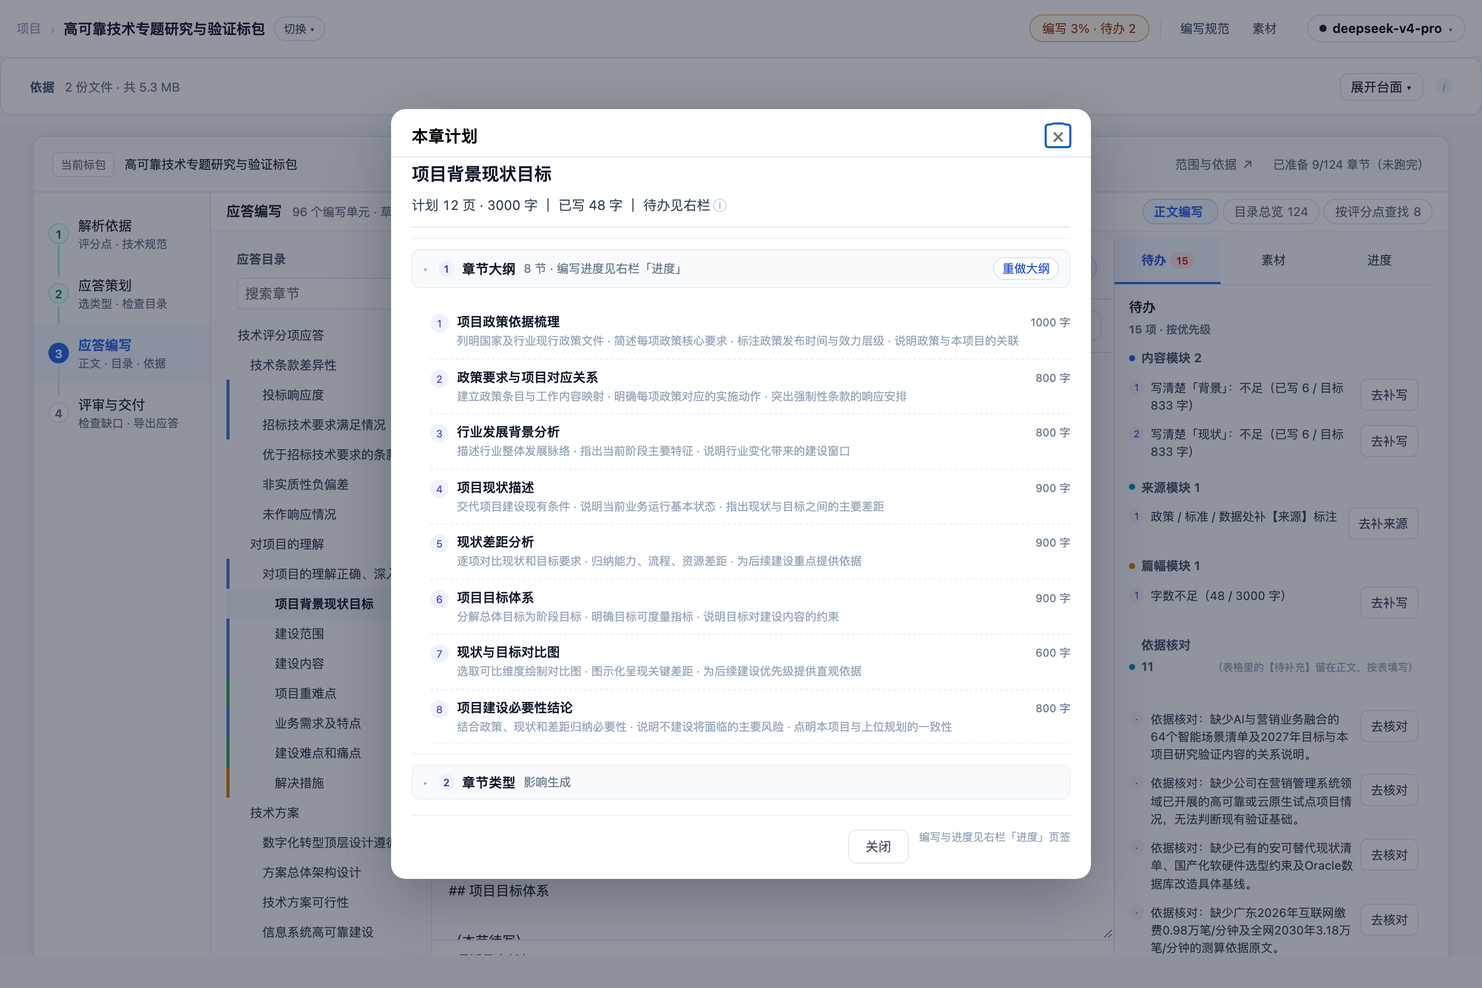
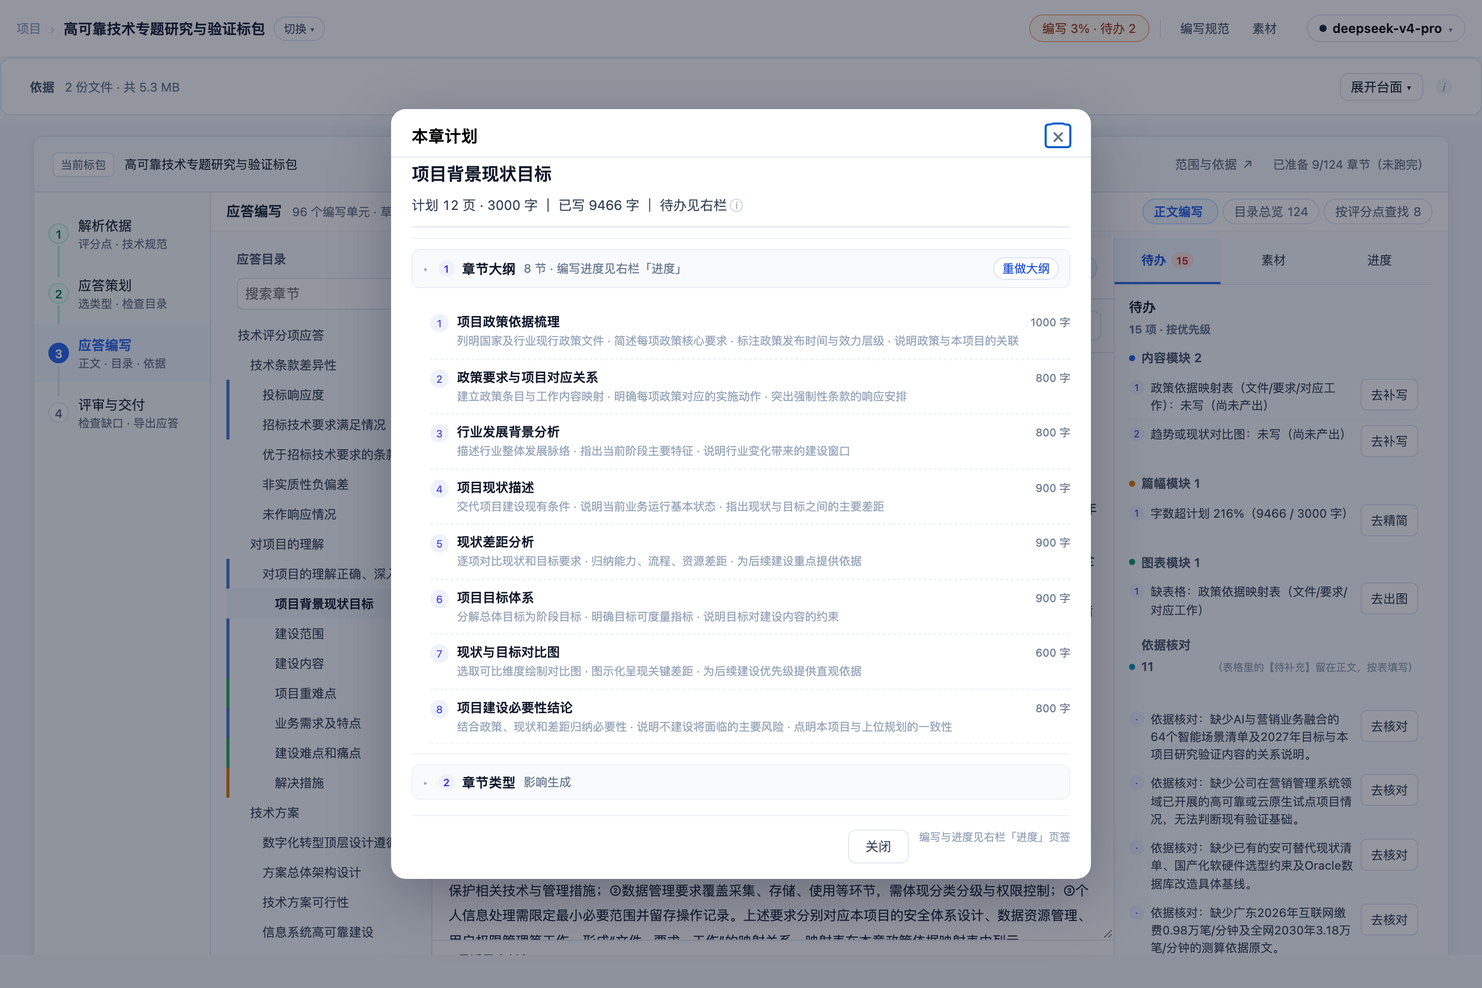
feat(图片审阅): 点缩略图可放大查看（dialog 顶层，不被图集遮挡）
用户要求：审阅图集里的缩略图点击后可以放大。

## 实现
- 新增 `openFigureZoom(figure)`：用 **dialog + showModal()** 渲染放大层
  · AI 图：按图型重新渲染（1.15 倍），保持清晰可读
  · 素材图：原图 `<img>`，最大 76vh
  · 待补图：提示"这张图还没有内容"
  · 头部显示图名 + 所属节；右上 × / 点遮罩 / Esc 均可关闭
- 图集缩略图加 `data-zoom-card` + `cursor: zoom-in` + `title="点击放大"`；
  点击缩略图放大，点「调整 / 查看 / 定位」按钮不受影响

## 踩坑与修复
第一版用普通 div + z-index:80 → **被 <dialog> 模态层盖住**（看起来"点了没反应"）。
改为 dialog 后进入 top layer，稳定盖在图集之上。

## 实测（真实页面）
点缩略图 → 放大层打开（宽 1100px、图型按 1.15 倍渲染）→ 点遮罩关闭 ✓

界面 52/52（v362）

diff --git a/frontend/assets/mode-outline.js b/frontend/assets/mode-outline.js
@@ -2,9 +2,9 @@
    抽成模块的目的：两段内联脚本有 90 个同名顶层标识符 + 18 个重复 DOM id，
    同页拼接必然互相覆盖；各自成为一个模块即各自一个作用域。
    本文件在抽取时**未改任何逻辑**。 */
-import {mountChapterStudio, exportDocument} from './chapter-studio.mjs?v=20261016-v359';
-import { api } from './api.js?v=20261016-v359';
-import { specContentHtml } from './spec-content.mjs?v=20261016-v359';
+import {mountChapterStudio, exportDocument} from './chapter-studio.mjs?v=20261016-v362';
+import { api } from './api.js?v=20261016-v362';
+import { specContentHtml } from './spec-content.mjs?v=20261016-v362';
 // 顶栏（项目名旁边那行「第 N 轮 · ...」）由共享壳 workspace.js 渲染。这里要把它
 // 改成**页面自己的真实状态**：checkpoint 的 stage 在准备中/编写准备完成后都停在
 // outline_review，只看它的话顶栏永远显示"待确认目录"（实测就是这个问题）。
@@ -12,7 +12,7 @@ import { workspace, renderWorkspaceChrome,
          REQUIREMENT_ROLES, SELECTABLE_REQUIREMENT_ROLES, ROLE_LABEL_SHARED, ROLE_HINT_SHARED,
          roleMismatchWarning, inferRoleFromFilename,
          uiAlert, uiConfirm,
-       } from './workspace.js?v=20261016-v359';
+       } from './workspace.js?v=20261016-v362';
 import { resolvePackageScope, buildOutlineTree, isOrphanedRun, activeStages, instructionDirty, newOutlineId, outlineSubtreeRange,
          moveOutlineNode, indentOutlineNode, outdentOutlineNode,
          moveManyOutlineNodes, indentManyOutlineNodes, outdentManyOutlineNodes,
@@ -31,7 +31,7 @@ import { resolvePackageScope, buildOutlineTree, isOrphanedRun, activeStages, ins
          // 章节状态投影：素材库 / 方案编辑 / 覆盖矩阵共用同一份判定（不再各算各的）
          chapterStage, chapterBadges, filterChapters, chapterFilterCounts,
          CHAPTER_STAGE_LABELS, evidenceByChapter, expandVisibleWithAncestors
-       } from './workspace-model.mjs?v=20261016-v359';
+       } from './workspace-model.mjs?v=20261016-v362';
 
 const params = new URLSearchParams(location.search);
 // projectId **只取数字部分**：链接被误写成 `?projectId=19**(Cmd+Shift+R)`（连带说明文字）
@@ -180,7 +180,7 @@ document.head.insertAdjacentHTML('beforeend', `<style>
 // 左栏章节树：行标记与「方案编辑」共用一份（2026-10-13 左栏归一）。
 // 此前两侧各拼一套（.ot-row / .doc-outline-item），数据投影虽已共用，
 // 但标记重复维护会漂移（workspace-model.mjs 注释里记着 "#undefined" 那次）。
-import { chapterNode, chapterBadgesHtml as sharedBadgesHtml } from './chapter-tree.mjs?v=20261016-v359';
+import { chapterNode, chapterBadgesHtml as sharedBadgesHtml } from './chapter-tree.mjs?v=20261016-v362';
 const blocksEmpty = document.getElementById('blocks-empty');
 const sidebarToc  = document.getElementById('sidebar-toc');
 const ringFill    = document.getElementById('ring-fill');

diff --git a/frontend/workbench.html b/frontend/workbench.html
@@ -4,7 +4,7 @@
     <meta charset="UTF-8" />
     <meta name="viewport" content="width=device-width, initial-scale=1.0" />
     <title>智能应标 · 材料撰写</title>
-    <link rel="stylesheet" href="./assets/styles.css?v=20261016-v359" />
+    <link rel="stylesheet" href="./assets/styles.css?v=20261016-v362" />
     <style>
       /* Outline pane */
       .workspace-shell .outline-pane {
@@ -2055,7 +2055,7 @@
     </style>
     <!-- Markdown 渲染（用于预览模式） -->
     <script src="https://cdn.jsdelivr.net/npm/marked@12.0.0/marked.min.js"></script>
-  <link rel="stylesheet" href="./assets/workspace.css?v=20261016-v359" />
+  <link rel="stylesheet" href="./assets/workspace.css?v=20261016-v362" />
   </head>
   <body>
   <script>
@@ -2500,18 +2500,18 @@
       </main>
     </div>
 
-    <script type="module" src="./assets/workbench.js?v=20261016-v359"></script>
+    <script type="module" src="./assets/workbench.js?v=20261016-v362"></script>
     <script type="module">
-      import { GenerateSession } from './assets/generate-session.js?v=20261016-v359';
-      import { initContextPanel } from './assets/context-panel.js?v=20261016-v359';
-      import { api } from './assets/api.js?v=20261016-v359';
-      import { request as workspaceRequest, refreshWorkspace, workspace, confirmChapterAction } from './assets/workspace.js?v=20261016-v359';
+      import { GenerateSession } from './assets/generate-session.js?v=20261016-v362';
+      import { initContextPanel } from './assets/context-panel.js?v=20261016-v362';
+      import { api } from './assets/api.js?v=20261016-v362';
+      import { request as workspaceRequest, refreshWorkspace, workspace, confirmChapterAction } from './assets/workspace.js?v=20261016-v362';
       // 提炼字段枚举 + 素材依据的**渲染片段**与 project-init 共用（见 workspace-model.mjs 注释）：
       // 性质徽标与出处行的实现在那边只有一份，两个页面不再各写一套（曾经因此漂移出
       // "每行显示 #undefined"）。
       import { CONSTRAINT_LEVELS, constraintLevelLabel,
                evidenceKindBadgeHtml, evidenceSourceLineHtml, evidenceSnippet,
-               chapterStage, CHAPTER_STAGE_LABELS } from './assets/workspace-model.mjs?v=20261016-v359';
+               chapterStage, CHAPTER_STAGE_LABELS } from './assets/workspace-model.mjs?v=20261016-v362';
       initContextPanel();
 
       // 素材抽屉：默认收起（写作时右栏就是正文本身），点工具栏「素材 n ▸」打开；
@@ -5575,6 +5575,6 @@
       })();
     })();
     </script>
-  <script type="module" src="./assets/workspace.js?v=20261016-v359"></script>
+  <script type="module" src="./assets/workspace.js?v=20261016-v362"></script>
   </body>
 </html>

diff --git a/frontend/three-mode.html b/frontend/three-mode.html
@@ -4,9 +4,9 @@
     <meta charset="UTF-8" />
     <meta name="viewport" content="width=device-width, initial-scale=1.0" />
     <title>AiBidding · Workbench Init State</title>
-    <link rel="stylesheet" href="./assets/response-outline.css?v=20261016-v359" />
-    <link rel="stylesheet" href="./assets/chapter-studio.css?v=20261016-v359" />
-    <link rel="stylesheet" href="./assets/styles.css?v=20261016-v359" />
+    <link rel="stylesheet" href="./assets/response-outline.css?v=20261016-v362" />
+    <link rel="stylesheet" href="./assets/chapter-studio.css?v=20261016-v362" />
+    <link rel="stylesheet" href="./assets/styles.css?v=20261016-v362" />
     <style>
 /* ── 三栏布局 ── */
 .init-layout {
@@ -3350,8 +3350,8 @@ body[data-view="matching"] .match-detail { display: block; }
   body[data-view="editor"] .ws-editor-layout { flex: 1 1 auto; min-height: 0; }
 
 </style>
-  <link rel="stylesheet" href="./assets/workspace.css?v=20261016-v359" />
-  <link rel="stylesheet" href="./assets/ui.css?v=20261016-v359" />   <!-- 组件最小集：最后加载以统一历史类名 -->
+  <link rel="stylesheet" href="./assets/workspace.css?v=20261016-v362" />
+  <link rel="stylesheet" href="./assets/ui.css?v=20261016-v362" />   <!-- 组件最小集：最后加载以统一历史类名 -->
   </head>
   <body data-view="outline" data-modes="outline,matching,editor">
     <div class="workspace-shell">
@@ -4062,16 +4062,16 @@ body[data-view="matching"] .match-detail { display: block; }
         if (skel) skel.hidden = true;
       }, 6000);
     </script>
-    <script type="module" src="./assets/workbench.js?v=20261016-v359"></script>
-    <script type="module" src="./assets/mode-dispatch.js?v=20261016-v359"></script>
+    <script type="module" src="./assets/workbench.js?v=20261016-v362"></script>
+    <script type="module" src="./assets/mode-dispatch.js?v=20261016-v362"></script>
     <!-- 动态 import：失败可捕获并上报（静态 import 失败无法捕获，会让整页静默不执行） -->
     <script type="module">
-      for (const mod of ['./assets/mode-outline.js?v=20261016-v359',
-                        './assets/mode-editor.js?v=20261016-v359']) {
+      for (const mod of ['./assets/mode-outline.js?v=20261016-v362',
+                        './assets/mode-editor.js?v=20261016-v362']) {
         try { await import(mod); }
         catch (err) { window.__bootErrors.push(`模块加载失败 ${mod}：${err?.message || err}`); }
       }
     </script>
-  <script type="module" src="./assets/workspace.js?v=20261016-v359"></script>
+  <script type="module" src="./assets/workspace.js?v=20261016-v362"></script>
   </body>
 </html>

diff --git a/frontend/project-init.html b/frontend/project-init.html
@@ -4,7 +4,7 @@
     <meta charset="UTF-8" />
     <meta name="viewport" content="width=device-width, initial-scale=1.0" />
     <title>AiBidding · Workbench Init State</title>
-    <link rel="stylesheet" href="./assets/styles.css?v=20261016-v359" />
+    <link rel="stylesheet" href="./assets/styles.css?v=20261016-v362" />
     <style>
 /* ── 三栏布局 ── */
 .init-layout {
@@ -889,7 +889,7 @@ body[data-view="matching"] .match-detail { display: block; }
   background: #eff6ff;
 }
     </style>
-  <link rel="stylesheet" href="./assets/workspace.css?v=20261016-v359" />
+  <link rel="stylesheet" href="./assets/workspace.css?v=20261016-v362" />
   </head>
   <body data-view="outline">
   <script>
@@ -1097,14 +1097,14 @@ body[data-view="matching"] .match-detail { display: block; }
     </div>
 
     <script type="module">
-import { api } from './assets/api.js?v=20261016-v359';
+import { api } from './assets/api.js?v=20261016-v362';
 // 顶栏（项目名旁边那行「第 N 轮 · ...」）由共享壳 workspace.js 渲染。这里要把它
 // 改成**页面自己的真实状态**：checkpoint 的 stage 在提炼中/提炼完成后都停在
 // outline_review，只看它的话顶栏永远显示"待确认目录"（实测就是这个问题）。
 import { workspace, renderWorkspaceChrome,
          REQUIREMENT_ROLES, ROLE_LABEL_SHARED, ROLE_HINT_SHARED,
          roleMismatchWarning, inferRoleFromFilename,
-       } from './assets/workspace.js?v=20261016-v359';
+       } from './assets/workspace.js?v=20261016-v362';
 import { buildOutlineTree, isOrphanedRun, activeStages, instructionDirty, newOutlineId, outlineSubtreeRange,
          moveOutlineNode, indentOutlineNode, outdentOutlineNode,
          removeOutlineSubtree, insertSiblingAfter, insertChildOf,
@@ -1118,7 +1118,7 @@ import { buildOutlineTree, isOrphanedRun, activeStages, instructionDirty, newOut
          // 章节状态投影：素材库 / 方案编辑 / 覆盖矩阵共用同一份判定（不再各算各的）
          chapterStage, chapterBadges, filterChapters, chapterFilterCounts,
          CHAPTER_STAGE_LABELS, evidenceByChapter, expandVisibleWithAncestors
-       } from './assets/workspace-model.mjs?v=20261016-v359';
+       } from './assets/workspace-model.mjs?v=20261016-v362';
 
 const params = new URLSearchParams(location.search);
 const projectId = params.get('projectId');
@@ -4957,6 +4957,6 @@ bindMatchDetailActions();
   });
 })();
     </script>
-  <script type="module" src="./assets/workspace.js?v=20261016-v359"></script>
+  <script type="module" src="./assets/workspace.js?v=20261016-v362"></script>
   </body>
 </html>

diff --git a/frontend/assets/mode-editor.js b/frontend/assets/mode-editor.js
@@ -2,13 +2,13 @@
    抽成模块的目的：两段内联脚本有 90 个同名顶层标识符 + 18 个重复 DOM id，
    同页拼接必然互相覆盖；各自成为一个模块即各自一个作用域。
    本文件在抽取时**未改任何逻辑**。 */
-import { GenerateSession } from './generate-session.js?v=20261016-v359';
+import { GenerateSession } from './generate-session.js?v=20261016-v362';
 // 左栏章节树：与「要求与大纲 / 素材库」共用一份行标记（2026-10-13 左栏归一）
-import { chapterNode, renderChapterTree } from './chapter-tree.mjs?v=20261016-v359';
-import { initContextPanel } from './context-panel.js?v=20261016-v359';
-import { api } from './api.js?v=20261016-v359';
+import { chapterNode, renderChapterTree } from './chapter-tree.mjs?v=20261016-v362';
+import { initContextPanel } from './context-panel.js?v=20261016-v362';
+import { api } from './api.js?v=20261016-v362';
 import { request as workspaceRequest, refreshWorkspace, workspace, confirmChapterAction ,
-         uiAlert, uiConfirm} from './workspace.js?v=20261016-v359';
+         uiAlert, uiConfirm} from './workspace.js?v=20261016-v362';
 
 // ── 本章要求 bar 的应答条目缓存 ──────────────────────────────
 // 必须**声明在模块最前面**：它原本声明在文件中部，而模块之间存在循环依赖
@@ -21,7 +21,7 @@ let responseItemsByBlock = {};
 // "每行显示 #undefined"）。
 import { CONSTRAINT_LEVELS, constraintLevelLabel,
          evidenceKindBadgeHtml, evidenceSourceLineHtml, evidenceSnippet,
-         chapterStage, CHAPTER_STAGE_LABELS } from './workspace-model.mjs?v=20261016-v359';
+         chapterStage, CHAPTER_STAGE_LABELS } from './workspace-model.mjs?v=20261016-v362';
 initContextPanel();
 
 // 素材抽屉：默认收起（写作时右栏就是正文本身），点工具栏「素材 n ▸」打开；

diff --git a/frontend/project-intake.html b/frontend/project-intake.html
@@ -3,7 +3,7 @@
 <head>
   <meta charset="utf-8"><meta name="viewport" content="width=device-width,initial-scale=1">
   <title>项目准备 · 智能应标</title>
-  <link rel="stylesheet" href="/assets/styles.css?v=20261016-v359">
+  <link rel="stylesheet" href="/assets/styles.css?v=20261016-v362">
   <style>
     body{margin:0;background:#f7f8fa;color:#17202a;font-family:Inter,"PingFang SC",sans-serif}
     .shell{max-width:1120px;margin:auto;padding:28px}.top{display:flex;justify-content:space-between;align-items:center;margin-bottom:22px}
@@ -32,4 +32,4 @@
 </main>
 <dialog id="package-editor"><form id="package-form"><h2>编辑投标对象</h2><p class="hint">仅在识别有误时修改；名称可留空。</p><input id="edit-id" type="hidden"><label>对象类型<select id="edit-kind"><option value="package">标包</option><option value="section">标段</option><option value="target">独立标的</option></select></label><label>所属标的编号<input id="edit-target"></label><label>标包 / 标段编号<input id="edit-code"></label><label>完整名称<input id="edit-name" maxlength="300"></label><div class="actions"><button type="button" id="cancel-edit">取消</button><button class="primary" type="submit">保存</button></div></form></dialog>
 <dialog id="merge-dialog"><form id="merge-form"><h2>合并重复候选</h2><p class="hint">将当前候选的证据合并到以下保留项。已有运行成果的候选不能合并，保留项需要重新核验。</p><input id="merge-source" type="hidden"><label>保留的投标对象<select id="merge-destination"></select></label><div class="actions"><button type="button" id="cancel-merge">取消</button><button type="submit" class="primary">确认合并</button></div></form></dialog>
-<script type="module" src="/assets/intake.js?v=20261016-v359"></script></body></html>
+<script type="module" src="/assets/intake.js?v=20261016-v362"></script></body></html>

diff --git a/frontend/review.html b/frontend/review.html
@@ -4,16 +4,16 @@
     <meta charset="UTF-8" />
     <meta name="viewport" content="width=device-width, initial-scale=1.0" />
     <title>AiBidding · 质量检查</title>
-    <link rel="stylesheet" href="./assets/styles.css?v=20261016-v359" />
-    <link rel="stylesheet" href="./assets/review.css?v=20261016-v359" />
-  <link rel="stylesheet" href="./assets/workspace.css?v=20261016-v359" />
+    <link rel="stylesheet" href="./assets/styles.css?v=20261016-v362" />
+    <link rel="stylesheet" href="./assets/review.css?v=20261016-v362" />
+  <link rel="stylesheet" href="./assets/workspace.css?v=20261016-v362" />
   <style>
     /* 返回作业面板：与项目名同级的次级入口 */
     .back-to-panel { margin-left:10px; font-size:12.5px; color:var(--muted); text-decoration:none;
       border:1px solid var(--line); border-radius:8px; padding:3px 10px; }
     .back-to-panel:hover { color:var(--text); background:var(--bg-2); }
   </style>
-  <link rel="stylesheet" href="./assets/ui.css?v=20261016-v359" />   <!-- 组件最小集：最后加载以统一历史类名 -->
+  <link rel="stylesheet" href="./assets/ui.css?v=20261016-v362" />   <!-- 组件最小集：最后加载以统一历史类名 -->
   </head>
   <body>
     <div class="workspace-shell">
@@ -96,7 +96,7 @@
       </main>
     </div>
 
-    <script type="module" src="./assets/review.js?v=20261016-v359"></script>
-  <script type="module" src="./assets/workspace.js?v=20261016-v359"></script>
+    <script type="module" src="./assets/review.js?v=20261016-v362"></script>
+  <script type="module" src="./assets/workspace.js?v=20261016-v362"></script>
   </body>
 </html>

diff --git a/frontend/assets/workbench.js b/frontend/assets/workbench.js
@@ -1,12 +1,12 @@
-import {workspace, subscribe, refreshWorkspace, workspaceUrl, confirmChapterAction, openDialog, showHistory, statusLabels, esc} from './workspace.js?v=20261016-v359';
+import {workspace, subscribe, refreshWorkspace, workspaceUrl, confirmChapterAction, openDialog, showHistory, statusLabels, esc} from './workspace.js?v=20261016-v362';
 // 章节状态/依据徽标与「素材库」共用一份投影（同一棵目录树，四个环节都一样）
-import {chapterBadges, parseEvidence} from './workspace-model.mjs?v=20261016-v359';
+import {chapterBadges, parseEvidence} from './workspace-model.mjs?v=20261016-v362';
 // 左栏章节树：**三个模式共用一份**行标记（2026-10-13 归一）。
 // 此前编辑器侧自己拼 `.doc-outline-item`、大纲侧拼 `.ot-row`，是两套实现；
 // 数据投影本就共用（workspace-model），这里把标记也收敛掉。
 // 行上仍保留 `doc-outline-item` 类与 data-block-id 属性，兼容 mode-editor.js 里
 // 既有的 10 处选择器（改动面最小化）。
-import {chapterNode, renderChapterTree, chapterBadgesHtml} from './chapter-tree.mjs?v=20261016-v359';
+import {chapterNode, renderChapterTree, chapterBadgesHtml} from './chapter-tree.mjs?v=20261016-v362';
 // 左栏树的**唯一宿主**：由 mode-dispatch 在模式切换时把 #blocks-list 搬到当前模式的
 // 左栏位置。归一前这里是 `.doc-outline`，与大纲侧 `#blocks-list` 各渲一棵（实测
 // .ot-node 有 120 个 = 两棵各 60）。动态解析而不是加载时捕获，就是为了让宿主可搬。

diff --git a/frontend/assets/chapter-studio.css b/frontend/assets/chapter-studio.css
@@ -736,3 +736,18 @@ h2.cs-sec-writing, h3.cs-sec-writing, h4.cs-sec-writing { background: #fef3c7 !i
 .cs-progress-btn:hover { background: #eff6ff; border-color: #bfdbfe; }
 .cs-progress-btn:active { background: #dbeafe; }
 .cs-progress-btn:disabled { color: #94a3b8; background: #f8fafc; cursor: default; }
+
+/* 图片放大查看（审阅图集 → 点缩略图） */
+.cs-fig-zoom { border: 0; padding: 0; background: transparent; max-width: none; max-height: none;
+  display: flex; align-items: center; justify-content: center; }
+.cs-fig-zoom::backdrop { background: rgba(15,23,42,.55); }
+.cs-fig-zoom-inner { background: #fff; border-radius: 12px; box-shadow: 0 24px 60px rgba(15,23,42,.35);
+  width: min(92vw, 1100px); max-height: 88vh; display: flex; flex-direction: column; overflow: hidden; }
+.cs-fig-zoom-inner header { display: flex; align-items: center; gap: 10px; padding: 12px 16px; border-bottom: 1px solid #eef2f7; }
+.cs-fig-zoom-inner header b { font-size: 13.5px; color: #0f172a; }
+.cs-fig-zoom-inner header span { flex: 1; font-size: 11px; color: #94a3b8; }
+.cs-fig-zoom-close { border: 0; background: transparent; font-size: 20px; line-height: 1; color: #94a3b8; cursor: pointer; }
+.cs-fig-zoom-body { padding: 16px; overflow: auto; display: flex; align-items: center; justify-content: center; }
+.cs-fig-zoom-body .cs-dg { transform: scale(1.15); transform-origin: center; margin: 8px; }
+.cs-fig-zoom-body img { max-width: 100%; max-height: 76vh; object-fit: contain; }
+.cs-fig-thumb[data-zoom-card] { cursor: zoom-in; }

diff --git a/frontend/projects.html b/frontend/projects.html
@@ -4,7 +4,7 @@
     <meta charset="UTF-8" />
     <meta name="viewport" content="width=device-width, initial-scale=1.0" />
     <title>智能应标 · 项目列表</title>
-    <link rel="stylesheet" href="./assets/styles.css?v=20261016-v359" />
+    <link rel="stylesheet" href="./assets/styles.css?v=20261016-v362" />
     <style>
       /* ── 页头 ── */
       .app-header {
@@ -613,7 +613,7 @@
       .btn-api-save:disabled { opacity: 0.45; cursor: default; }
       .btn-api-save:not(:disabled):hover { opacity: 0.88; }
     </style>
-    <link rel="stylesheet" href="./assets/ui.css?v=20261016-v359" />   <!-- 组件最小集：最后加载以统一历史类名 -->
+    <link rel="stylesheet" href="./assets/ui.css?v=20261016-v362" />   <!-- 组件最小集：最后加载以统一历史类名 -->
 </head>
   <body>
     <!-- 页头 -->
@@ -745,7 +745,7 @@
     </div>
 
     <script type="module">
-      import { api } from './assets/api.js?v=20261016-v359';
+      import { api } from './assets/api.js?v=20261016-v362';
 
       // ── 状态 ──
       const reqFiles = []; // {file, name, size, ext}

diff --git a/frontend/diff-review.html b/frontend/diff-review.html
@@ -4,8 +4,8 @@
     <meta charset="UTF-8" />
     <meta name="viewport" content="width=device-width, initial-scale=1.0" />
     <title>AiBidding · Diff Review</title>
-    <link rel="stylesheet" href="./assets/styles.css?v=20261016-v359" />
-  <link rel="stylesheet" href="./assets/workspace.css?v=20261016-v359" />
+    <link rel="stylesheet" href="./assets/styles.css?v=20261016-v362" />
+  <link rel="stylesheet" href="./assets/workspace.css?v=20261016-v362" />
   </head>
   <body>
     <div class="workspace-shell">
@@ -98,7 +98,7 @@
     </div>
 
     <script type="module">
-      import { api } from './assets/api.js?v=20261016-v359';
+      import { api } from './assets/api.js?v=20261016-v362';
 
       const params    = new URLSearchParams(location.search);
       const projectId = params.get('projectId');
@@ -326,6 +326,6 @@
 
       loadRevisions();
     </script>
-  <script type="module" src="./assets/workspace.js?v=20261016-v359"></script>
+  <script type="module" src="./assets/workspace.js?v=20261016-v362"></script>
   </body>
 </html>

diff --git a/frontend/assets/workspace.js b/frontend/assets/workspace.js
@@ -1,11 +1,11 @@
-import {projectChapters, summarize, statusLabels, stageLabels, activeStages, runtimeStages, isOrphanedRun, isExtractDone, diffHtml, escapeHtml as esc} from './workspace-model.mjs?v=20261016-v359';
+import {projectChapters, summarize, statusLabels, stageLabels, activeStages, runtimeStages, isOrphanedRun, isExtractDone, diffHtml, escapeHtml as esc} from './workspace-model.mjs?v=20261016-v362';
 export {statusLabels, esc};
 // 材料角色体系再导出：project-init 的角色下拉与"分类纠错提示"都从这里取
 export {
   REQUIREMENT_ROLES, SELECTABLE_REQUIREMENT_ROLES, SOURCE_ROLES, ALL_MATERIAL_ROLES,
   ROLE_LABEL as ROLE_LABEL_SHARED, ROLE_HINT as ROLE_HINT_SHARED,
   isRequirementRole, inferRoleFromFilename, roleMismatchWarning,
-} from './material-roles.mjs?v=20261016-v359';
+} from './material-roles.mjs?v=20261016-v362';
 export async function request(url, options) {
   const response = await fetch(url, options);
   const data = await response.json().catch(() => ({}));
